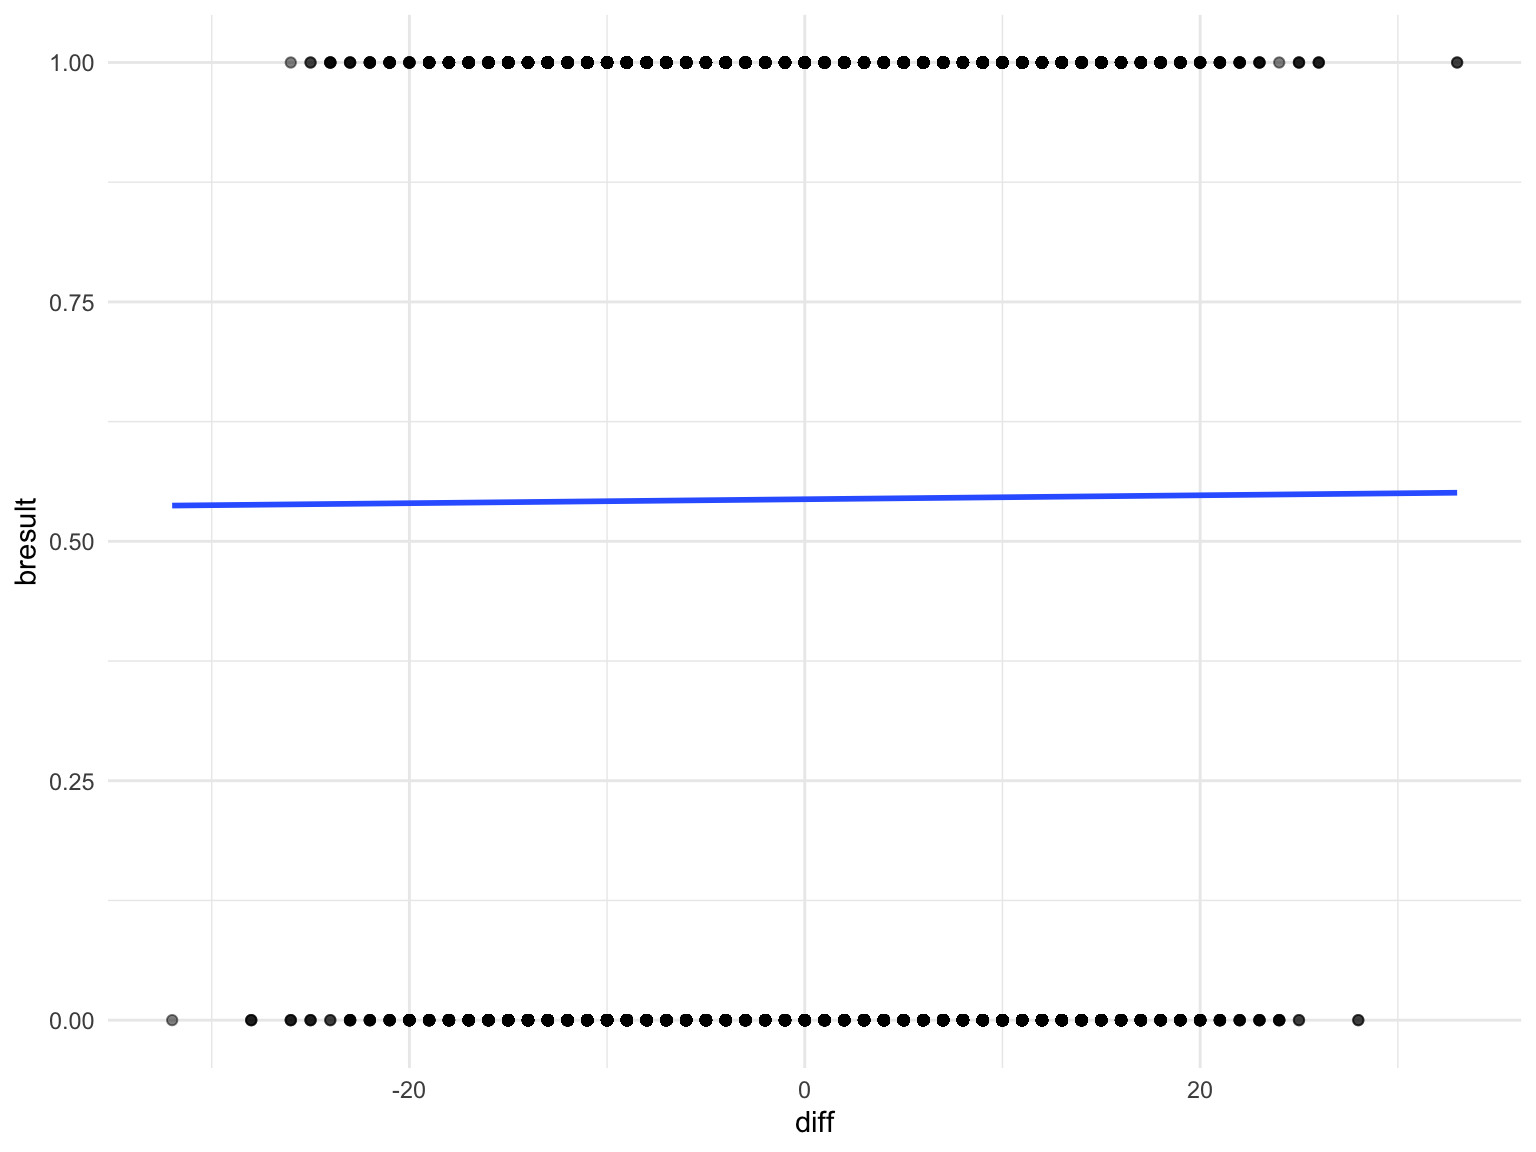
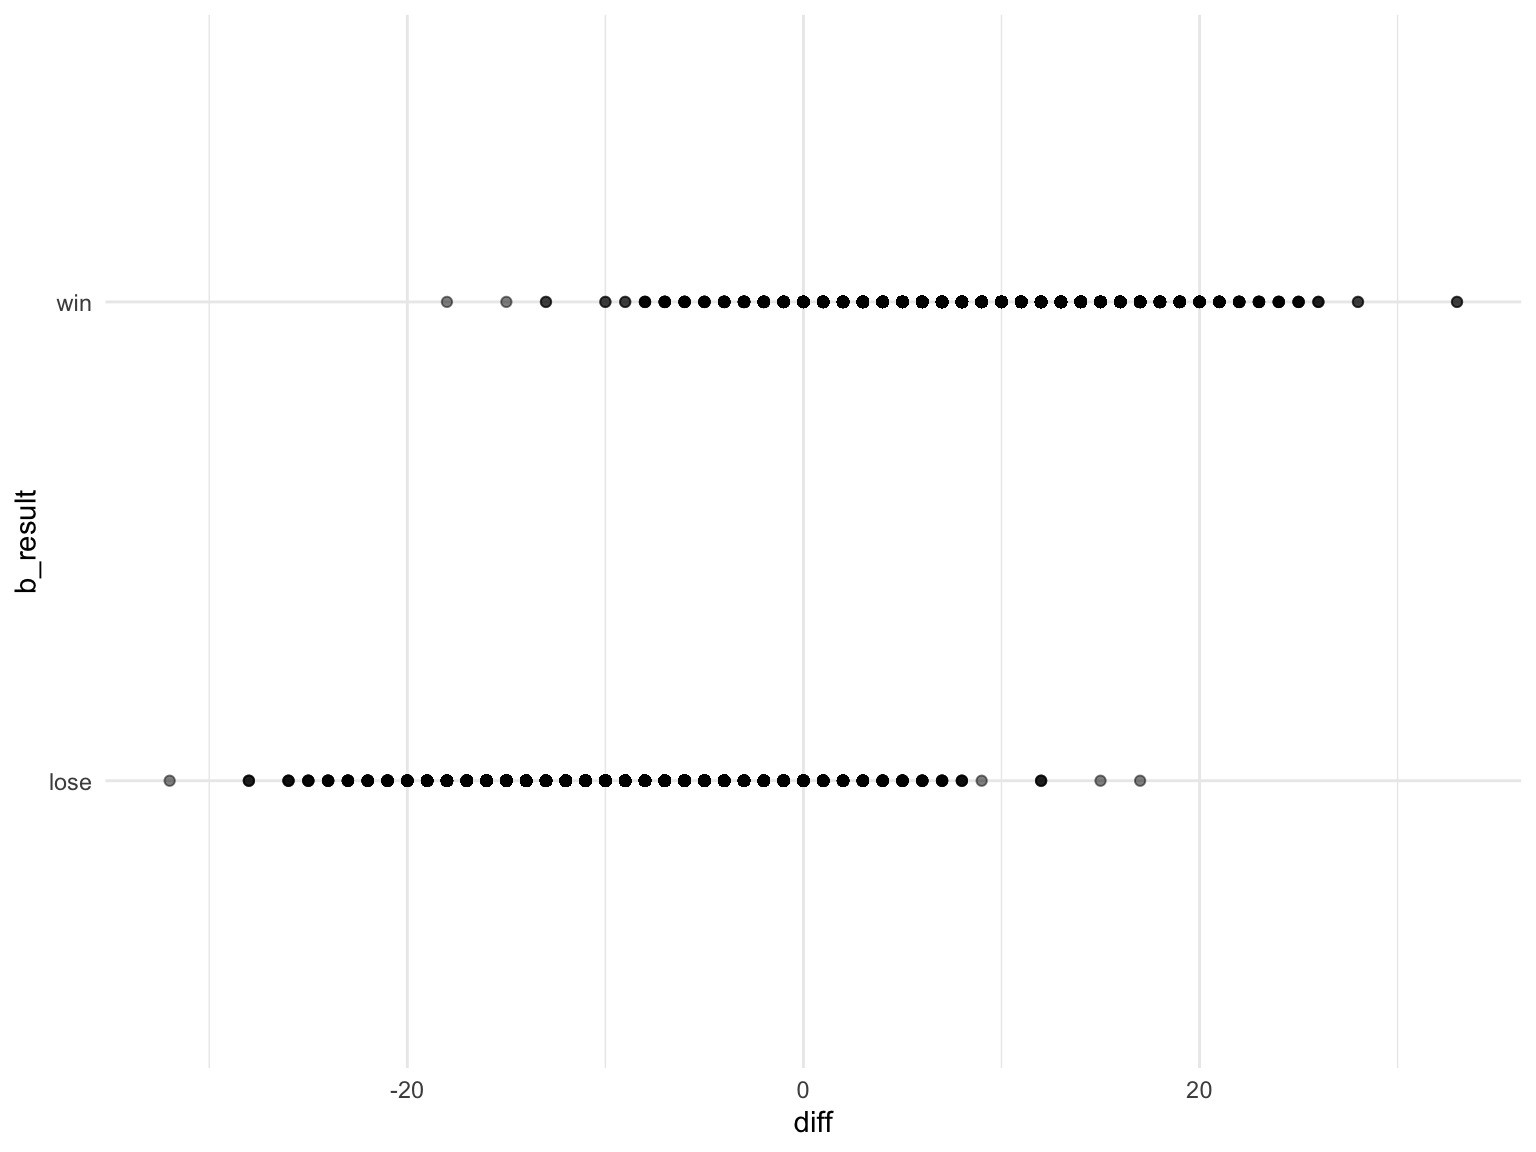
fix the errors in merging files

diff --git a/data_source.html b/data_source.html
@@ -466,40 +466,23 @@ gold_ave =
 </div>
 <div id="read-and-clean-the-neutral-kills-data" class="section level2">
 <h2>read and clean the neutral kills data</h2>
-<pre class="r"><code>monster = read_csv(&quot;./data/monsters.csv&quot;)
-str(monster)</code></pre>
-<pre><code>## Classes &#39;spec_tbl_df&#39;, &#39;tbl_df&#39;, &#39;tbl&#39; and &#39;data.frame&#39;: 44248 obs. of  4 variables:
-##  $ Address: chr  &quot;http://matchhistory.na.leagueoflegends.com/en/#match-details/TRLH1/30030?gameHash=fbb300951ad8327c&quot; &quot;http://matchhistory.na.leagueoflegends.com/en/#match-details/TRLH1/30054?gameHash=055b17da8456fdc8&quot; &quot;http://matchhistory.na.leagueoflegends.com/en/#match-details/TRLH1/30054?gameHash=055b17da8456fdc8&quot; &quot;http://matchhistory.na.leagueoflegends.com/en/#match-details/TRLH1/30054?gameHash=055b17da8456fdc8&quot; ...
-##  $ Team   : chr  &quot;bDragons&quot; &quot;bDragons&quot; &quot;bDragons&quot; &quot;bDragons&quot; ...
-##  $ Time   : num  37.3 32.5 26.2 19.1 24.6 ...
-##  $ Type   : chr  &quot;DRAGON&quot; &quot;DRAGON&quot; &quot;DRAGON&quot; &quot;DRAGON&quot; ...
-##  - attr(*, &quot;spec&quot;)=
-##   .. cols(
-##   ..   Address = col_character(),
-##   ..   Team = col_character(),
-##   ..   Time = col_double(),
-##   ..   Type = col_character()
-##   .. )</code></pre>
-<pre class="r"><code>summary(monster)</code></pre>
-<pre><code>##    Address              Team                Time            Type          
-##  Length:44248       Length:44248       Min.   : 3.082   Length:44248      
-##  Class :character   Class :character   1st Qu.:16.448   Class :character  
-##  Mode  :character   Mode  :character   Median :23.617   Mode  :character  
-##                                        Mean   :24.169                     
-##                                        3rd Qu.:30.842                     
-##                                        Max.   :92.364</code></pre>
 <pre class="r"><code>monster = 
+  read_csv(&quot;./data/monsters.csv&quot;) %&gt;% 
+  janitor::clean_names() %&gt;% 
+  mutate(
+    address = str_remove(address, &quot;http://matchhistory.na.leagueoflegends.com/en/#match-details/TRLH1/&quot;)
+  )
+
+monster = 
   monster %&gt;% 
-  filter(Team %in% c(&quot;bDragons&quot;, &quot;bBarons&quot;, &quot;bHeralds&quot;)) %&gt;% 
-  group_by(Address, Type) %&gt;% 
+  filter(team %in% c(&quot;bDragons&quot;, &quot;bBarons&quot;, &quot;bHeralds&quot;)) %&gt;% 
+  group_by(address, type) %&gt;% 
   summarize(number = n()) %&gt;% 
   pivot_wider(
-    names_from = Type,
+    names_from = type,
     values_from = number
   ) 
-monster[is.na(monster)] = 0
-monster = monster %&gt;% 
-  janitor::clean_names()</code></pre>
+monster[is.na(monster)] = 0</code></pre>
 <p>merge</p>
 <pre class="r"><code>merge_file = left_join(merge_file, monster, by = &quot;address&quot;)</code></pre>
 <p>visualizations</p>
@@ -538,15 +521,10 @@ origin_df %&gt;%
 </div>
 <div id="read-and-clean-the-kills-data" class="section level2">
 <h2>read and clean the kills data</h2>
-<pre class="r"><code>kills &lt;- read_csv(&quot;./data/kills.csv&quot;)
-## set key
-key &lt;- pull(origin_df,address) %&gt;% as_tibble()
-## merged the kills.csv with key
-colnames(key) &lt;- &quot;address&quot;
-kills &lt;- kills %&gt;% janitor::clean_names()
-kills_all &lt;- left_join(key, kills, by = &quot;address&quot;)
-## calculate kill difference between blue team and red team
-kills_diff &lt;- kills_all %&gt;% 
+<pre class="r"><code>kills &lt;- read_csv(&quot;./data/kills.csv&quot;) %&gt;% 
+  janitor::clean_names() %&gt;% 
+  mutate(address = str_remove(address,
+        &quot;http://matchhistory.na.leagueoflegends.com/en/#match-details/TRLH1/&quot;)) %&gt;%         
   group_by(address,team) %&gt;%
   select(address,team) %&gt;% 
   summarize(n = n()) %&gt;% 
@@ -554,19 +532,20 @@ kills_diff &lt;- kills_all %&gt;%
     names_from = &quot;team&quot;,
     values_from = &quot;n&quot;) %&gt;%
   mutate(diff = bKills - rKills)
-## extract bResult from dataset
-outcome &lt;- pull(origin_df,b_result) %&gt;% as_tibble()
-colnames(outcome) &lt;- &quot;bresult&quot;
-df &lt;- bind_cols(kills_diff,outcome)</code></pre>
+## merge kills to merge_file.csv
+merge_file &lt;- left_join(merge_file,kills,by=&quot;address&quot;)
+## relevel b_results
+merge_file &lt;- merge_file %&gt;% 
+  mutate(b_result = relevel(b_result,&quot;lose&quot;))</code></pre>
 <p>do some visualization</p>
-<pre class="r"><code>df %&gt;% ggplot(aes(x = diff,y = bresult)) + 
+<pre class="r"><code>merge_file %&gt;% ggplot(aes(x = diff,y = b_result)) + 
   geom_point()</code></pre>
 <p><img src="data_source_files/figure-html/unnamed-chunk-13-1.png" width="90%" /></p>
-<pre class="r"><code>df %&gt;%  ggplot((aes(x = bresult,y = diff,group = bresult))) +
+<pre class="r"><code>merge_file %&gt;%  ggplot((aes(x = b_result,y = diff,group = b_result))) +
   geom_boxplot() +
   coord_flip()</code></pre>
 <p><img src="data_source_files/figure-html/unnamed-chunk-13-2.png" width="90%" /></p>
-<pre class="r"><code>df %&gt;% ggplot(aes(x = diff,y = bresult)) + 
+<pre class="r"><code>merge_file %&gt;% ggplot(aes(x = diff,y = b_result)) + 
   geom_point(alpha = 0.5) +
   stat_smooth(method = &quot;glm&quot;, se = FALSE, fullrange = TRUE, 
               method.args = list(family = binomial))</code></pre>

diff --git a/visualization.html b/visualization.html
@@ -381,6 +381,7 @@ div.tocify {
 <p>bTower means the mean time blue team destroy enemy’s outer towers among three lanes, rTower means the mean time red team destroy enemy’s outer towers among three lanes. We care about the impact of different of mean time between two groups. from the plot, we can see that if bTower is smaller than rTower (meaning that blue teams destroy red teams’ outer tower faster) there will be a higher win rate among blue teams</p>
 <p><img src="gold_diff.png" /></p>
 <p>The figure above shows the average gold difference across the whole game when blue team wins and blue team loses. The gold difference is calculated by the total gold of blue team minus that of red team in every minutes of the game. As we expected, the average mean of gold difference should be higher when blue team wins the game.</p>
+<p><img src="kills_diff.png" /></p>
 
 
 
